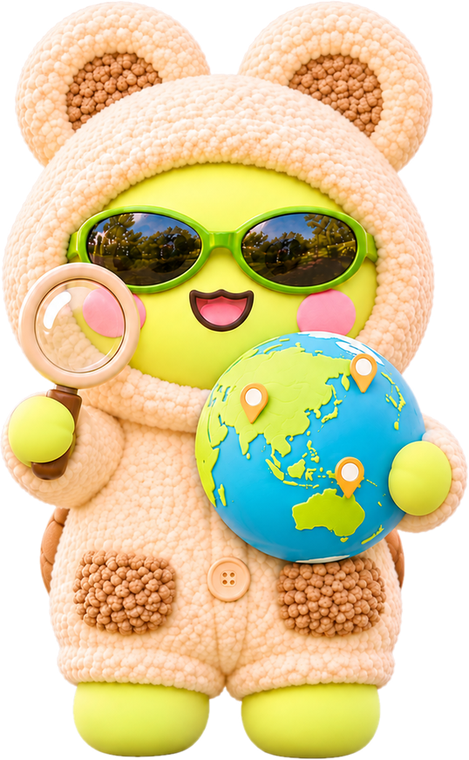
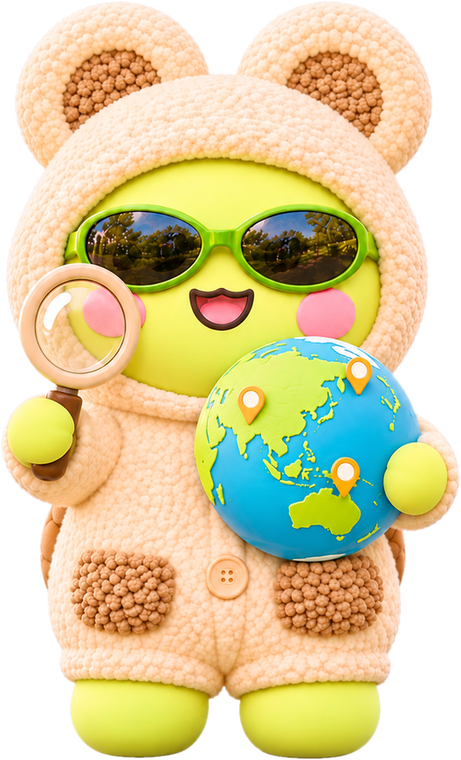
마지막 장: 에궁이 이미지 교체, '더 많은 이야기 만나기' CTA
Claude-Session: https://claude.ai/code/session_01FUQKNhWLu9dp5SStkRa8wE

diff --git a/collector/cards/cards.css b/collector/cards/cards.css
@@ -160,12 +160,15 @@ mark {
    ===================================================================== */
 .s-outro h2 { margin-top: 64px; font: 860 72px/1.18 var(--f-body); letter-spacing: -.055em; }
 .s-outro .sub { margin-top: 18px; font-size: 27px; color: var(--ink-2); line-height: 1.5; letter-spacing: -.03em; }
-.s-outro .mascot { flex: 1 1 0; min-height: 0; position: relative; margin: 8px 0 22px; }
+.s-outro .cta { align-self: flex-start; margin-top: 28px; display: inline-flex; align-items: center; gap: 18px; padding: 10px 10px 10px 34px; border-radius: 999px; background: var(--ink); color: #fff; font-size: 27px; font-weight: 800; letter-spacing: -.03em; }   /* 표지 '넘겨서 보기'와 같은 화살표·색 */
+.s-outro .cta span { width: 56px; height: 56px; border-radius: 50%; background: var(--accent); color: var(--ink); display: grid; place-items: center; }
+.s-outro .cta svg { width: 28px; height: 28px; }
+.s-outro .mascot { flex: 1 1 0; min-height: 0; position: relative; margin: -64px 0 22px; }   /* CTA 줄 옆까지 올려서 크게 */
 /* 에궁이 그림 크기의 상자 (남은 높이 × 그림 비율) — 말풍선을 그림 기준으로 붙이려고 */
-.s-outro .mascot .fig { position: absolute; top: 0; bottom: 0; left: 50%; transform: translateX(-58%); aspect-ratio: 469 / 760; }
+.s-outro .mascot .fig { position: absolute; top: 0; bottom: 0; left: 50%; transform: translateX(-40%); aspect-ratio: 461 / 760; }
 /* 남은 공간을 꽉 채우되 비율 유지 (브라우저마다 높이 계산이 달라도 보이게 absolute로) */
 .s-outro .mascot img { position: absolute; inset: 0; width: 100%; height: 100%; object-fit: contain; filter: drop-shadow(0 18px 24px rgba(0,0,0,.18)); }   /* 표지 에궁이와 같은 그림자 */
-.s-outro .bubble { position: absolute; left: 84%; top: 3%; width: 262px; height: 172px; color: var(--ink); z-index: 2; }   /* 표지 말풍선과 같은 모양·크기 */
+.s-outro .bubble { position: absolute; left: 80%; top: 3%; width: 262px; height: 172px; color: var(--ink); z-index: 2; }   /* 표지 말풍선과 같은 모양·크기 */
 .s-outro .bubble svg { position: absolute; inset: 0; width: 100%; height: 100%; overflow: visible; }
 .s-outro .bubble span { position: absolute; left: 0; right: 0; top: 0; height: 130px; display: flex; align-items: center; justify-content: center; font-size: 30px; font-weight: 800; letter-spacing: -.03em; white-space: nowrap; }
 .s-outro .acts { list-style: none; margin-top: auto; display: grid; grid-template-columns: repeat(3, 1fr); gap: 14px; }
